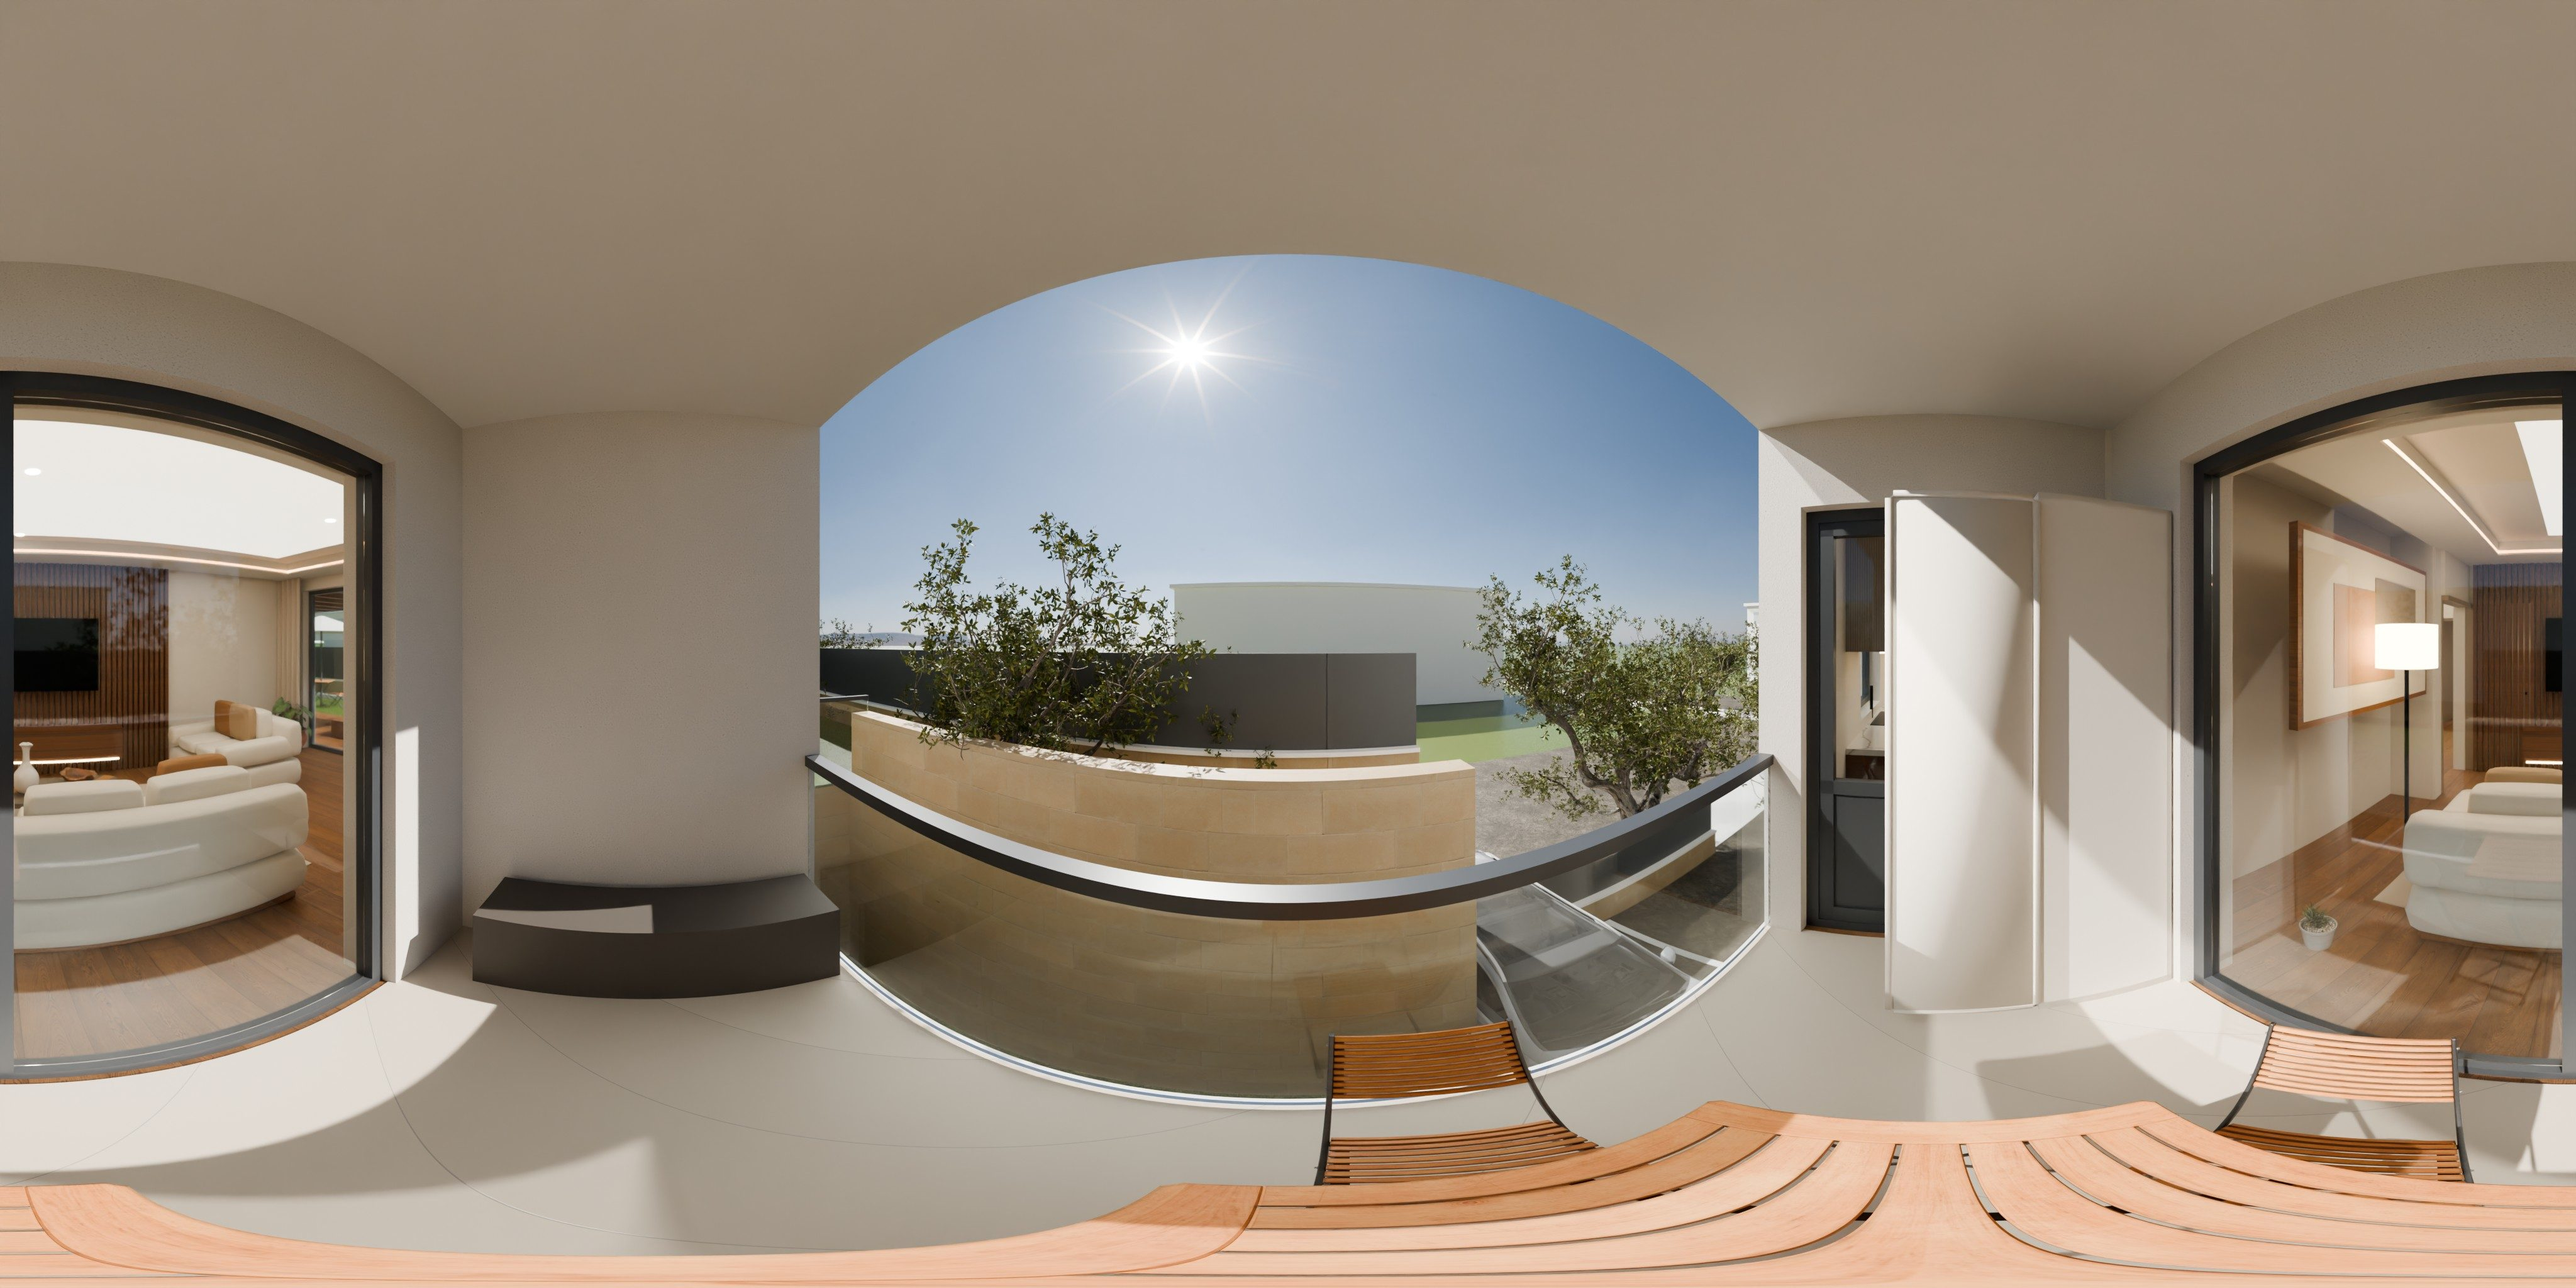
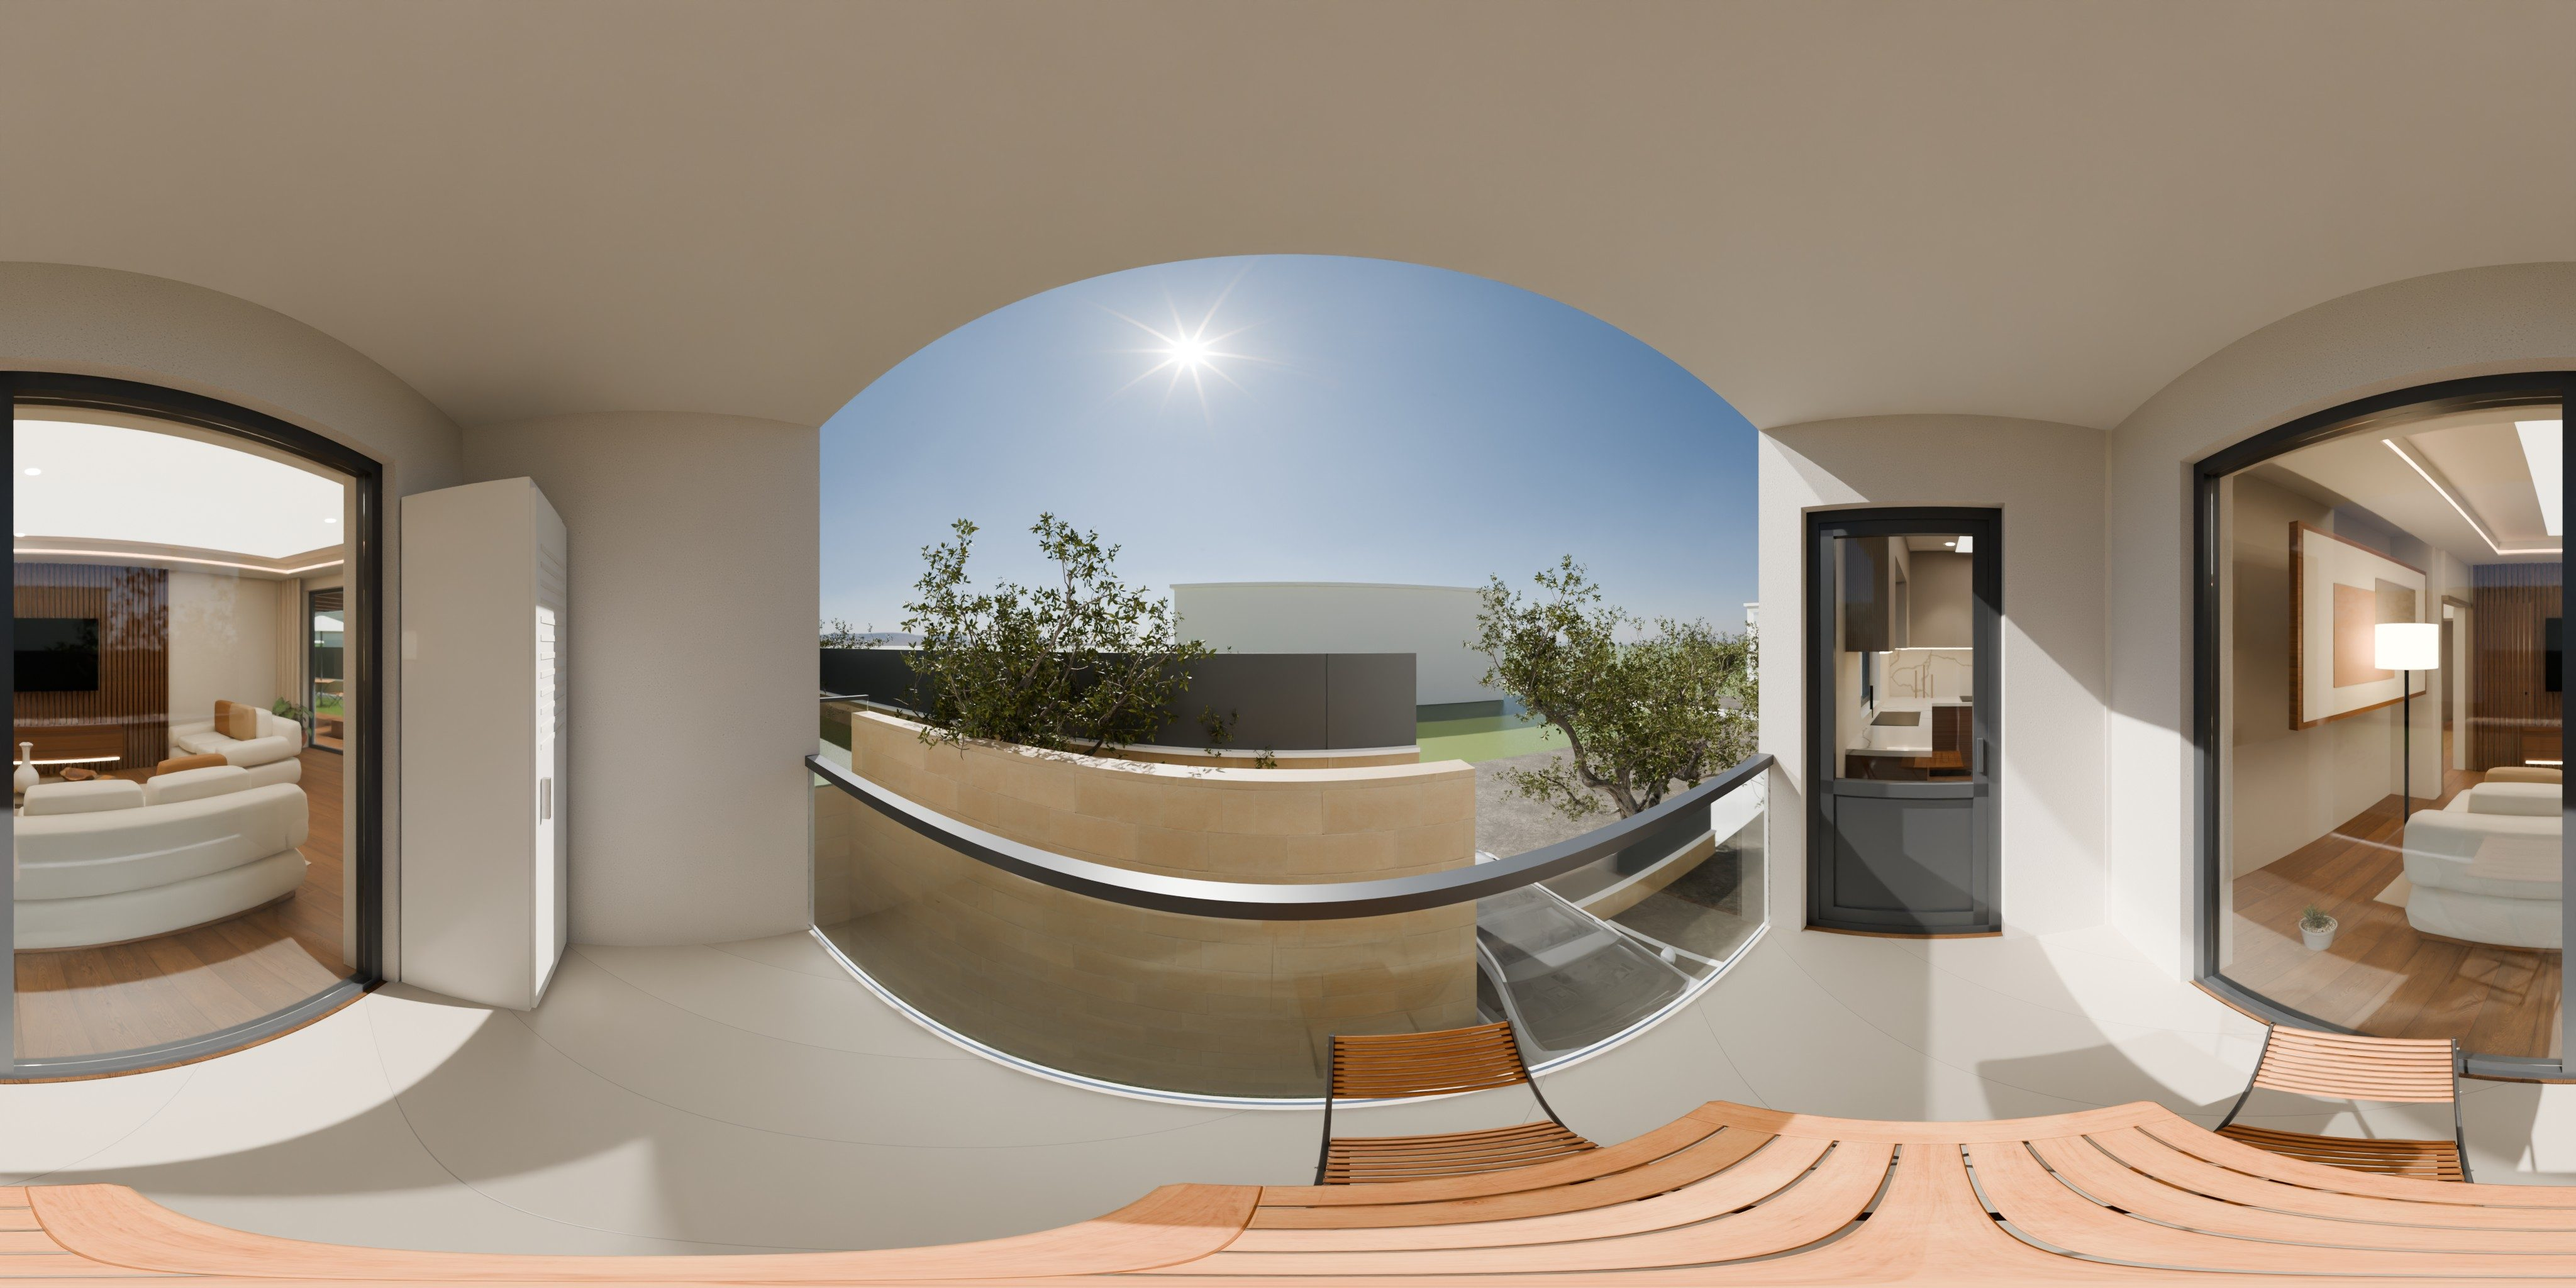
6 no 5. tur: kat holü iç mimari, merdiven, otopark noktası, kombi dolabı yeri, havlupan, tavana kadar üst dolaplar

diff --git a/satilik/tur/index.html b/satilik/tur/index.html
@@ -71,7 +71,7 @@ h1 { margin: 0; font-family: var(--font-baslik); font-stretch: 82%; font-weight:
 <script src="https://cdnjs.cloudflare.com/ajax/libs/three.js/r128/three.min.js"></script>
 <script>
 (function () {
-var D = [{"id": "01_salon", "ad": "Salon", "kat": "Daire", "x": -11.9, "y": -6.8, "z": 4.75, "yon": 175, "git": [1, 3, 7, 8], "bak": 60, "ok": {"04_hol": [-11.515, -4.08], "08_balkon": [-15.0, -5.449999999999999], "09_bahce": [-12.9, -9.7]}}, {"id": "02_yemek", "ad": "Yemek alanı", "kat": "Daire", "x": -14.1, "y": -8.549999999999999, "z": 4.75, "yon": 180, "git": [0, 7, 8], "ok": {"08_balkon": [-15.0, -5.449999999999999], "09_bahce": [-12.9, -9.7]}}, {"id": "03_mutfak", "ad": "Mutfak", "kat": "Daire", "x": -12.85, "y": -1.6999999999999993, "z": 4.75, "yon": 200, "git": [3, 7], "ok": {"04_hol": [-12.16, -2.96], "08_balkon": [-16.08, -3.55]}}, {"id": "04_hol", "ad": "Hol", "kat": "Daire", "x": -11.2, "y": -3.3, "z": 4.75, "yon": 90, "git": [0, 2, 4, 5, 6, 9], "ok": {"01_salon": [-11.515, -4.08], "03_mutfak": [-12.16, -2.96], "06_yatak2": [-8.91, -4.08], "07_banyo": [-9.75, -2.6499999999999995], "10_koridor": [-11.43, -1.3699999999999992], "05_ebeveyn": [-8.28, -3.2799999999999994]}}, {"id": "05_ebeveyn", "ad": "Ebeveyn yatak odası", "kat": "Daire", "x": -7.35, "y": -8.549999999999999, "z": 4.75, "yon": 70, "git": [3, 11], "ok": {"12_ebbanyo": [-6.49, -3.88], "04_hol": [-7.699999999999999, -4.05]}}, {"id": "06_yatak2", "ad": "Yatak odası", "kat": "Daire", "x": -9.65, "y": -5.25, "z": 4.75, "yon": 290, "git": [3], "ok": {"04_hol": [-8.91, -4.08]}}, {"id": "07_banyo", "ad": "Banyo", "kat": "Daire", "x": -9.4, "y": -2.0999999999999996, "z": 4.75, "yon": 20, "git": [3], "ok": {"04_hol": [-9.75, -2.6499999999999995]}}, {"id": "08_balkon", "ad": "Balkon", "kat": "Daire", "x": -15.95, "y": -5.449999999999999, "z": 4.75, "yon": 180, "git": [0, 1, 2], "ok": {"01_salon": [-15.0, -5.449999999999999], "02_yemek": [-15.0, -5.449999999999999], "03_mutfak": [-16.08, -3.55]}}, {"id": "09_bahce", "ad": "Özel bahçe", "kat": "Daire", "x": -12.15, "y": -13.25, "z": 4.6, "yon": 90, "git": [0, 1], "ok": {"01_salon": [-12.9, -9.7], "02_yemek": [-12.9, -9.7]}}, {"id": "10_koridor", "ad": "Kat holü · 6 no kapısı", "kat": "Apartman", "x": -11.4, "y": 0.0, "z": 4.75, "yon": 0, "git": [3, 10], "ok": {"04_hol": [-11.43, -1.3699999999999992]}}, {"id": "11_asansor", "ad": "Asansör ve merdiven", "kat": "Apartman", "x": -3.75, "y": 0.0, "z": 4.75, "yon": 270, "git": [9]}, {"id": "12_ebbanyo", "ad": "Ebeveyn banyosu", "kat": "Apartman", "x": -6.4, "y": -3.0999999999999996, "z": 4.75, "yon": 90, "git": [4], "ok": {"05_ebeveyn": [-6.49, -3.88]}}]; var GECE_VAR = false; var mod = "gunduz";
+var D = [{"id": "01_salon", "ad": "Salon", "kat": "Daire", "x": -11.9, "y": -6.8, "z": 4.75, "yon": 175, "git": [1, 3, 7, 8], "bak": 60, "ok": {"04_hol": [-11.515, -4.08], "08_balkon": [-15.0, -5.449999999999999], "09_bahce": [-12.9, -9.7]}}, {"id": "02_yemek", "ad": "Yemek alanı", "kat": "Daire", "x": -14.1, "y": -8.549999999999999, "z": 4.75, "yon": 180, "git": [0, 7, 8], "ok": {"08_balkon": [-15.0, -5.449999999999999], "09_bahce": [-12.9, -9.7]}}, {"id": "03_mutfak", "ad": "Mutfak", "kat": "Daire", "x": -12.85, "y": -1.6999999999999993, "z": 4.75, "yon": 200, "git": [3, 7], "ok": {"04_hol": [-12.16, -2.96], "08_balkon": [-16.08, -3.55]}}, {"id": "04_hol", "ad": "Hol", "kat": "Daire", "x": -11.2, "y": -3.3, "z": 4.75, "yon": 90, "git": [0, 2, 4, 5, 6, 9], "ok": {"01_salon": [-11.515, -4.08], "03_mutfak": [-12.16, -2.96], "06_yatak2": [-8.91, -4.08], "07_banyo": [-9.75, -2.6499999999999995], "10_koridor": [-11.43, -1.3699999999999992], "05_ebeveyn": [-8.28, -3.2799999999999994]}}, {"id": "05_ebeveyn", "ad": "Ebeveyn yatak odası", "kat": "Daire", "x": -7.35, "y": -8.549999999999999, "z": 4.75, "yon": 70, "git": [3, 11], "ok": {"12_ebbanyo": [-6.49, -3.88], "04_hol": [-7.699999999999999, -4.05]}}, {"id": "06_yatak2", "ad": "Yatak odası", "kat": "Daire", "x": -9.65, "y": -5.25, "z": 4.75, "yon": 290, "git": [3], "ok": {"04_hol": [-8.91, -4.08]}}, {"id": "07_banyo", "ad": "Banyo", "kat": "Daire", "x": -9.4, "y": -2.0999999999999996, "z": 4.75, "yon": 20, "git": [3], "ok": {"04_hol": [-9.75, -2.6499999999999995]}}, {"id": "08_balkon", "ad": "Balkon", "kat": "Daire", "x": -15.95, "y": -5.449999999999999, "z": 4.75, "yon": 180, "git": [0, 1, 2], "ok": {"01_salon": [-15.0, -5.449999999999999], "02_yemek": [-15.0, -5.449999999999999], "03_mutfak": [-16.08, -3.55]}}, {"id": "09_bahce", "ad": "Özel bahçe", "kat": "Daire", "x": -12.15, "y": -13.25, "z": 4.6, "yon": 90, "git": [0, 1], "ok": {"01_salon": [-12.9, -9.7], "02_yemek": [-12.9, -9.7]}}, {"id": "10_koridor", "ad": "Kat holü · 6 no kapısı", "kat": "Apartman", "x": -11.4, "y": 0.0, "z": 4.75, "yon": 0, "git": [3, 10], "ok": {"04_hol": [-11.43, -1.3699999999999992]}}, {"id": "11_asansor", "ad": "Asansör ve merdiven", "kat": "Apartman", "x": -3.75, "y": 0.0, "z": 4.75, "yon": 270, "git": [9, 12]}, {"id": "12_ebbanyo", "ad": "Ebeveyn banyosu", "kat": "Daire", "x": -6.4, "y": -3.0999999999999996, "z": 4.75, "yon": 90, "git": [4], "ok": {"05_ebeveyn": [-6.49, -3.88]}}, {"id": "13_otopark", "ad": "Otopark", "kat": "Apartman", "x": -9.15, "y": 0.0, "z": 1.75, "yon": 0, "git": [10]}]; var GECE_VAR = false; var mod = "gunduz";
 var kutu = document.getElementById("sahne");
 var renderer = new THREE.WebGLRenderer({ antialias: true });
 renderer.setPixelRatio(Math.min(window.devicePixelRatio || 1, 2));
